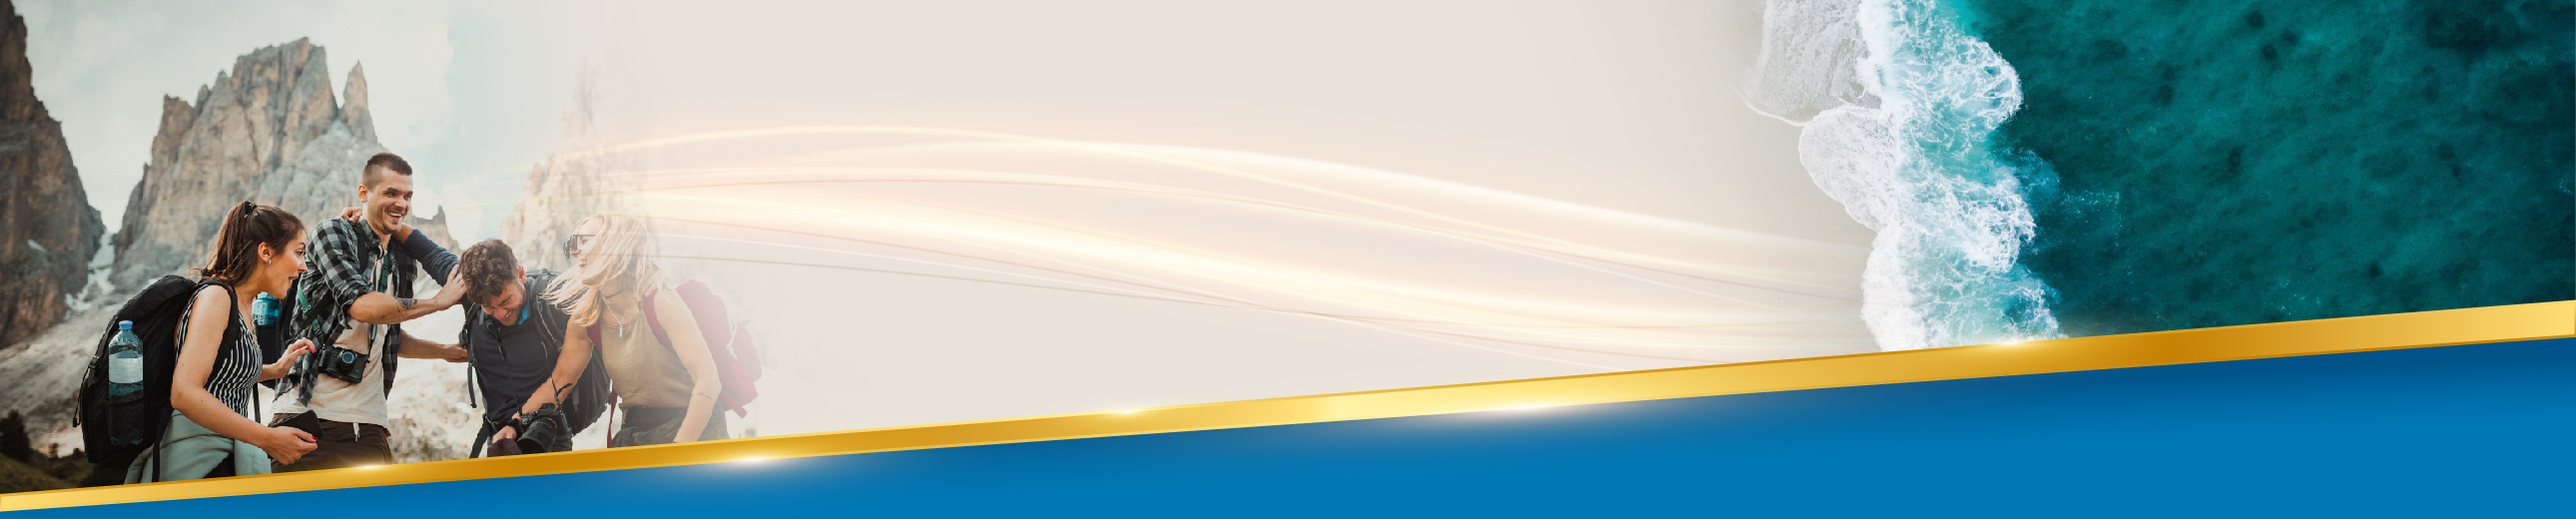
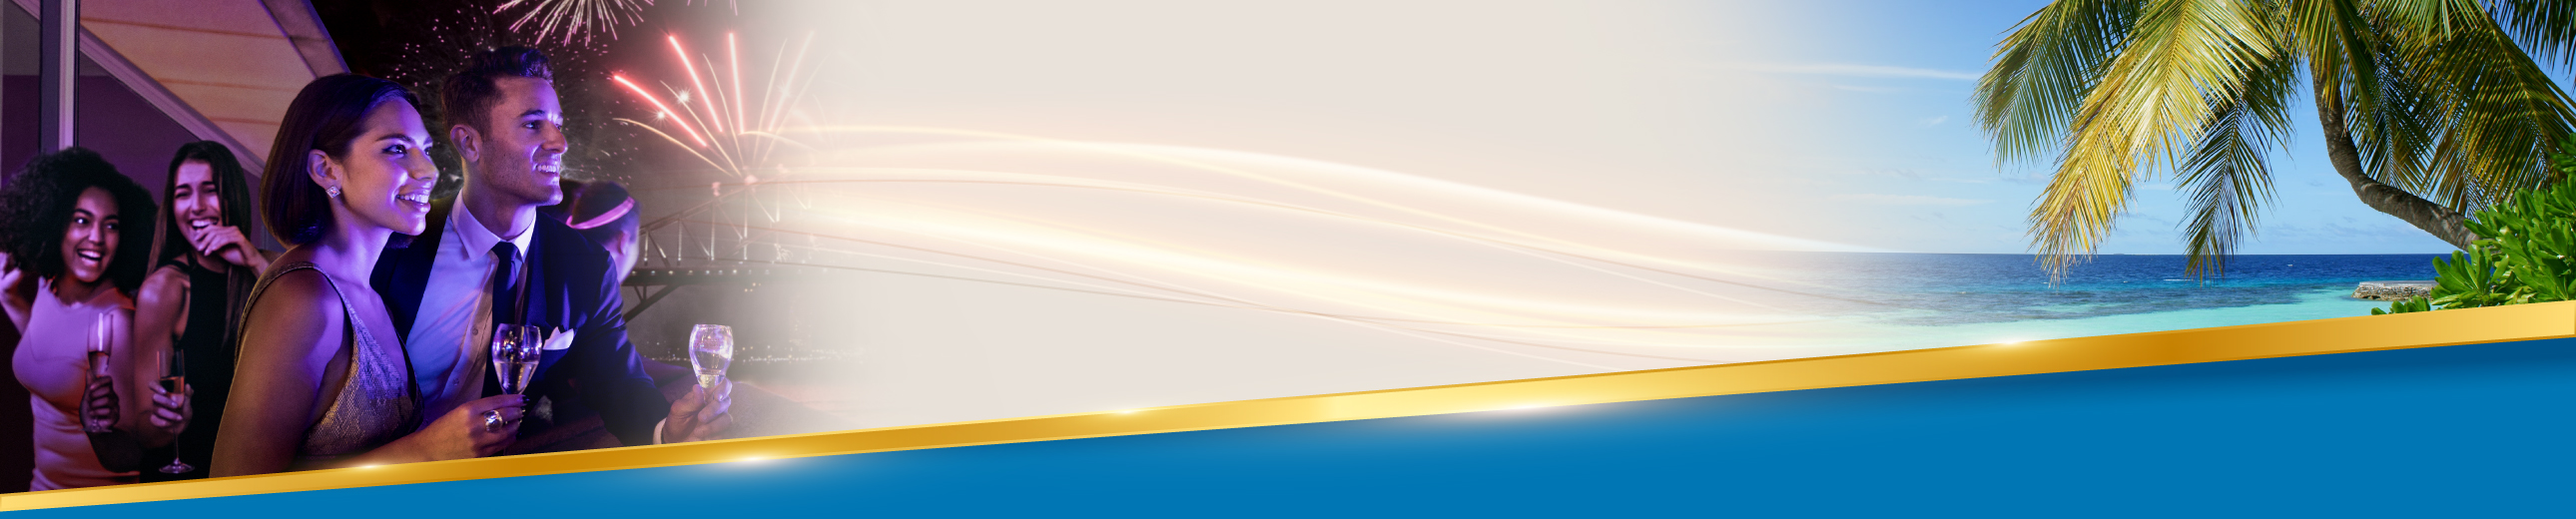
second commit

diff --git a/style.css b/style.css
@@ -658,7 +658,7 @@ strong {
   }
   div.wrapper div.title-image {
     position: relative;
-    background-image: url("./images/award2023_background.jpg");
+    background-image: url("./images/award2023_background-phone.jpg");
     -o-object-fit: cover;
        object-fit: cover;
     height: 420px;
@@ -811,7 +811,7 @@ strong {
   div.wrapper div.main-02 div.winner-trip div.GTA-winner-trip {
     display: flex;
     flex-direction: column;
-    gap: 12px;
+    gap: 24px;
     margin-bottom: 52px;
   }
   div.wrapper div.main-02 div.winner-trip div.GTA-winner-trip h3 {

diff --git a/style.scss b/style.scss
@@ -753,7 +753,7 @@ strong {
 
     div.title-image {
       position: relative;
-      background-image: url("./images/award2023_background.jpg");
+      background-image: url("./images/award2023_background-phone.jpg");
       object-fit: cover;
       height: 420px;
       width: auto;
@@ -927,7 +927,7 @@ strong {
         div.GTA-winner-trip {
           display: flex;
           flex-direction: column;
-          gap: 12px;
+          gap: 24px;
           margin-bottom: 52px;
 
           h3 {

diff --git a/index.html b/index.html
@@ -27,6 +27,7 @@
     <link rel="stylesheet" href="./style.css" />
   </head>
   <body>
+    <?php include("../header2019/index.htm"); ?>
     <div class="wrapper">
       <div class="title-image">
         <h1>2023勇奪雙金-旅遊業奧斯卡獎｜國際金旅獎 雙冠王｜雙料冠軍、榮耀肯定、優質行程</h1>
